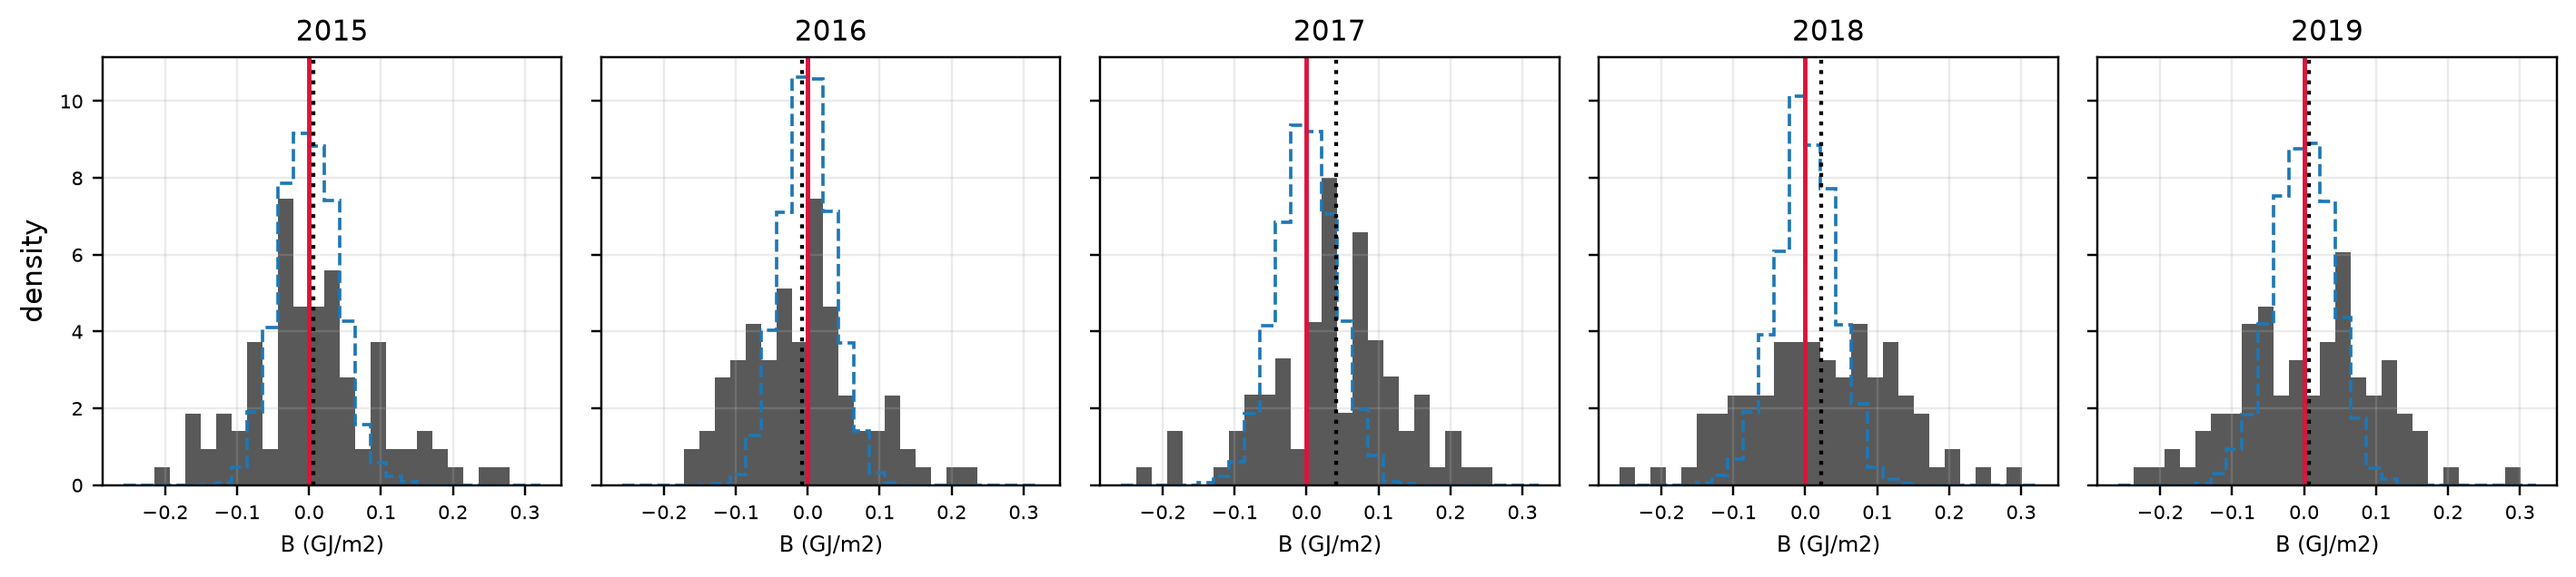
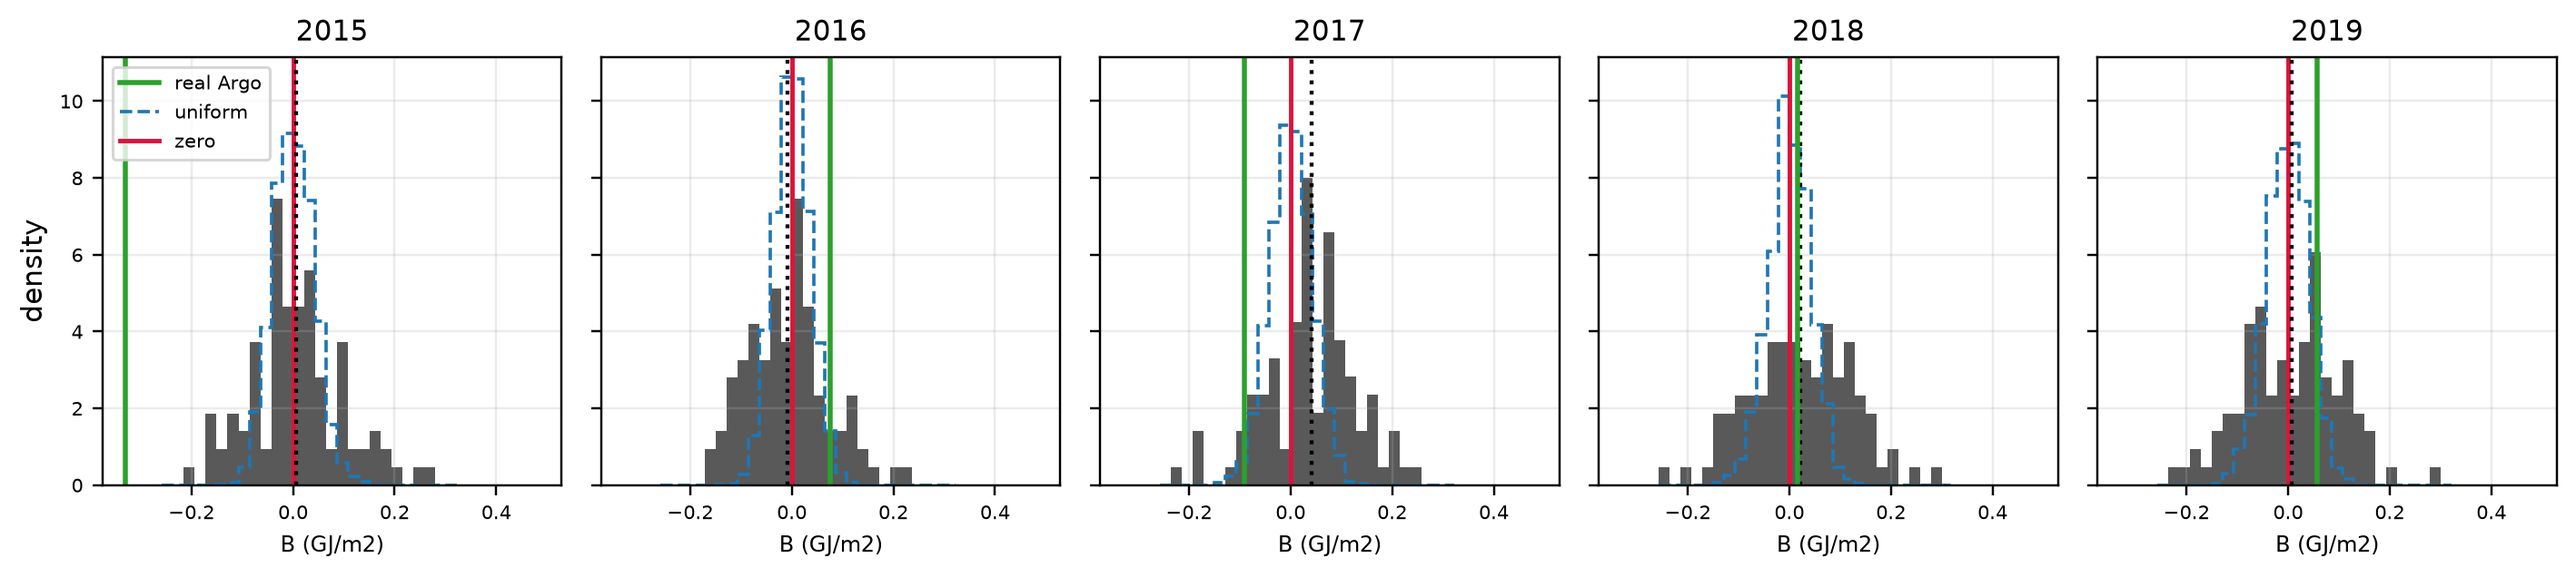
report: real-Argo realized bias as a reference line on the bias histograms
Add argo_bias_by_year: the same estimator (mean of Z_k at profiles minus
Zbar_k) applied to the real Argo profile positions in each box/year. Draw
it as a green reference line on fig-bias / fig-bias-a, widening the x-axis
where it falls outside the simulated range, and add prose on the finding:
the real array's bias is strongly negative in Box B (-0.56 to -1.35
GJ/m2, at the 0-5th percentile of the uniform-seeded simulation), i.e.
real deployment non-uniformity adds bias beyond the advective mechanism.

diff --git a/code/osse/mean_mc.py b/code/osse/mean_mc.py
@@ -1962,6 +1962,42 @@ def uniform_reference_ensemble(est, R=2000, seed=0):
     return pd.DataFrame(rows, columns=["box", "year", "B_unif"])
 
 
+def argo_bias_by_year(box, path=None):
+    """Realized bias of the REAL Argo array sampling the GLORYS anomaly field:
+    B_k = mean over that box's year-k Argo profiles of Z_k, minus Zbar_k (J/m^2).
+
+    Same estimator as the simulated arm, on the actual Argo profile positions
+    (surface locations) in data/argo_ohc.csv. Returns a Series year -> B_argo for
+    the years present in both the Argo record and the residual field.
+    """
+    from osse import sample_residuals as sr
+    path = path or os.path.join(os.path.dirname(cfg.GLORYS_DIR), "argo_ohc.csv")
+    d = pd.read_csv(path, usecols=["lat", "lon", "date"])
+    d["date"] = pd.to_datetime(d["date"], format="ISO8601", utc=True)
+    (la0, la1), (lo0, lo1) = cfg.BOXES[box]["lat_bounds"], cfg.BOXES[box]["lon_bounds"]
+    d = d[d["lat"].between(la0, la1) & d["lon"].between(lo0, lo1)].copy()
+    dt = d["date"].dt
+    doy0 = (dt.dayofyear - 1).to_numpy()
+    leap = dt.is_leap_year.to_numpy()
+    d["year"] = dt.year.to_numpy()
+    d["doy"] = np.where(leap & (doy0 >= 60), doy0 - 1, doy0)
+    d.loc[leap & (dt.month.to_numpy() == 2) & (dt.day.to_numpy() == 29), "doy"] = -1
+    d = d[d["doy"] >= 0]
+
+    z = sr.load_residual_field(box)
+    years = [int(y) for y in z["year"].values]
+    sampled, _ = sr.gather(d, z)
+    sampled = sampled[sampled["year"].isin(years)].copy()
+    col = {y: j for j, y in enumerate(years)}
+    zc = sampled[[f"z_{y}" for y in years]].to_numpy()
+    sampled["z_own"] = zc[np.arange(len(sampled)),
+                          [col[y] for y in sampled["year"].to_numpy()]]
+    zf, wet, w = load_field(box)
+    zbar = domain_means(zf, wet, w)[0].set_index("year")["zbar"]
+    ghat = sampled[sampled["year"].isin(years)].groupby("year")["z_own"].mean()
+    return (ghat - zbar).dropna()
+
+
 def continuous_pilot_size_table(est, boxes=("boxB", "boxA")):
     """Per box/year pilot sample sizes: mean in-box standing stock and distinct
     floats per realization, mean profile observations per realization, and the
@@ -2021,10 +2057,13 @@ def continuous_deff_table(tag="_pilot", boxes=("boxB", "boxA"), ref=None):
     return pd.DataFrame(rows)
 
 
-def plot_continuous_bias(est, box, ref=None, figsize=(13, 3.0)):
+def plot_continuous_bias(est, box, ref=None, argo=None, figsize=(13, 3.0)):
     """Bias distribution over realizations, one panel per year; uniform null overlaid
-    (from the large `ref` ensemble when given, else the aligned per-rep B_unif)."""
+    (from the large `ref` ensemble when given). If `argo` (a Series year -> B in
+    J/m^2 from argo_bias_by_year) is given, the realized real-Argo bias is drawn as
+    a green reference line, and the x-axis is widened to include it."""
     import matplotlib.pyplot as plt
+    from matplotlib.lines import Line2D
     g = est[est["box"] == box]
     gu = ref[ref["box"] == box] if ref is not None else g
     years = sorted(int(y) for y in g["year"].unique())
@@ -2032,6 +2071,10 @@ def plot_continuous_bias(est, box, ref=None, figsize=(13, 3.0)):
     lo, hi = np.percentile(allB, [0.5, 99.5])
     pad = 0.08 * (hi - lo)
     bins = np.linspace(lo - pad, hi + pad, 28)
+    xlo, xhi = lo - pad, hi + pad
+    if argo is not None:
+        av = argo * J_TO_GJ
+        xlo, xhi = min(xlo, av.min() - pad), max(xhi, av.max() + pad)
     fig, axes = plt.subplots(1, len(years), figsize=figsize, sharex=True, sharey=True)
     for ax, k in zip(np.atleast_1d(axes), years):
         gk = g[g["year"] == k]
@@ -2040,10 +2083,19 @@ def plot_continuous_bias(est, box, ref=None, figsize=(13, 3.0)):
                 histtype="step", color="tab:blue", lw=1.2, ls="--")
         ax.axvline(0.0, color="crimson", lw=1.6)
         ax.axvline(gk["B"].mean() * J_TO_GJ, color="k", lw=1.4, ls=":")
+        if argo is not None and k in argo.index:
+            ax.axvline(argo[k] * J_TO_GJ, color="tab:green", lw=1.8)
+        ax.set_xlim(xlo, xhi)
         ax.set_title(str(k), fontsize=10)
         ax.set_xlabel("B (GJ/m2)", fontsize=8)
         ax.tick_params(labelsize=7)
     np.atleast_1d(axes)[0].set_ylabel("density")
+    if argo is not None:
+        np.atleast_1d(axes)[0].legend(
+            handles=[Line2D([0], [0], color="tab:green", lw=1.8, label="real Argo"),
+                     Line2D([0], [0], color="tab:blue", lw=1.2, ls="--", label="uniform"),
+                     Line2D([0], [0], color="crimson", lw=1.6, label="zero")],
+            fontsize=7, loc="upper left")
     fig.tight_layout()
     return fig
 
